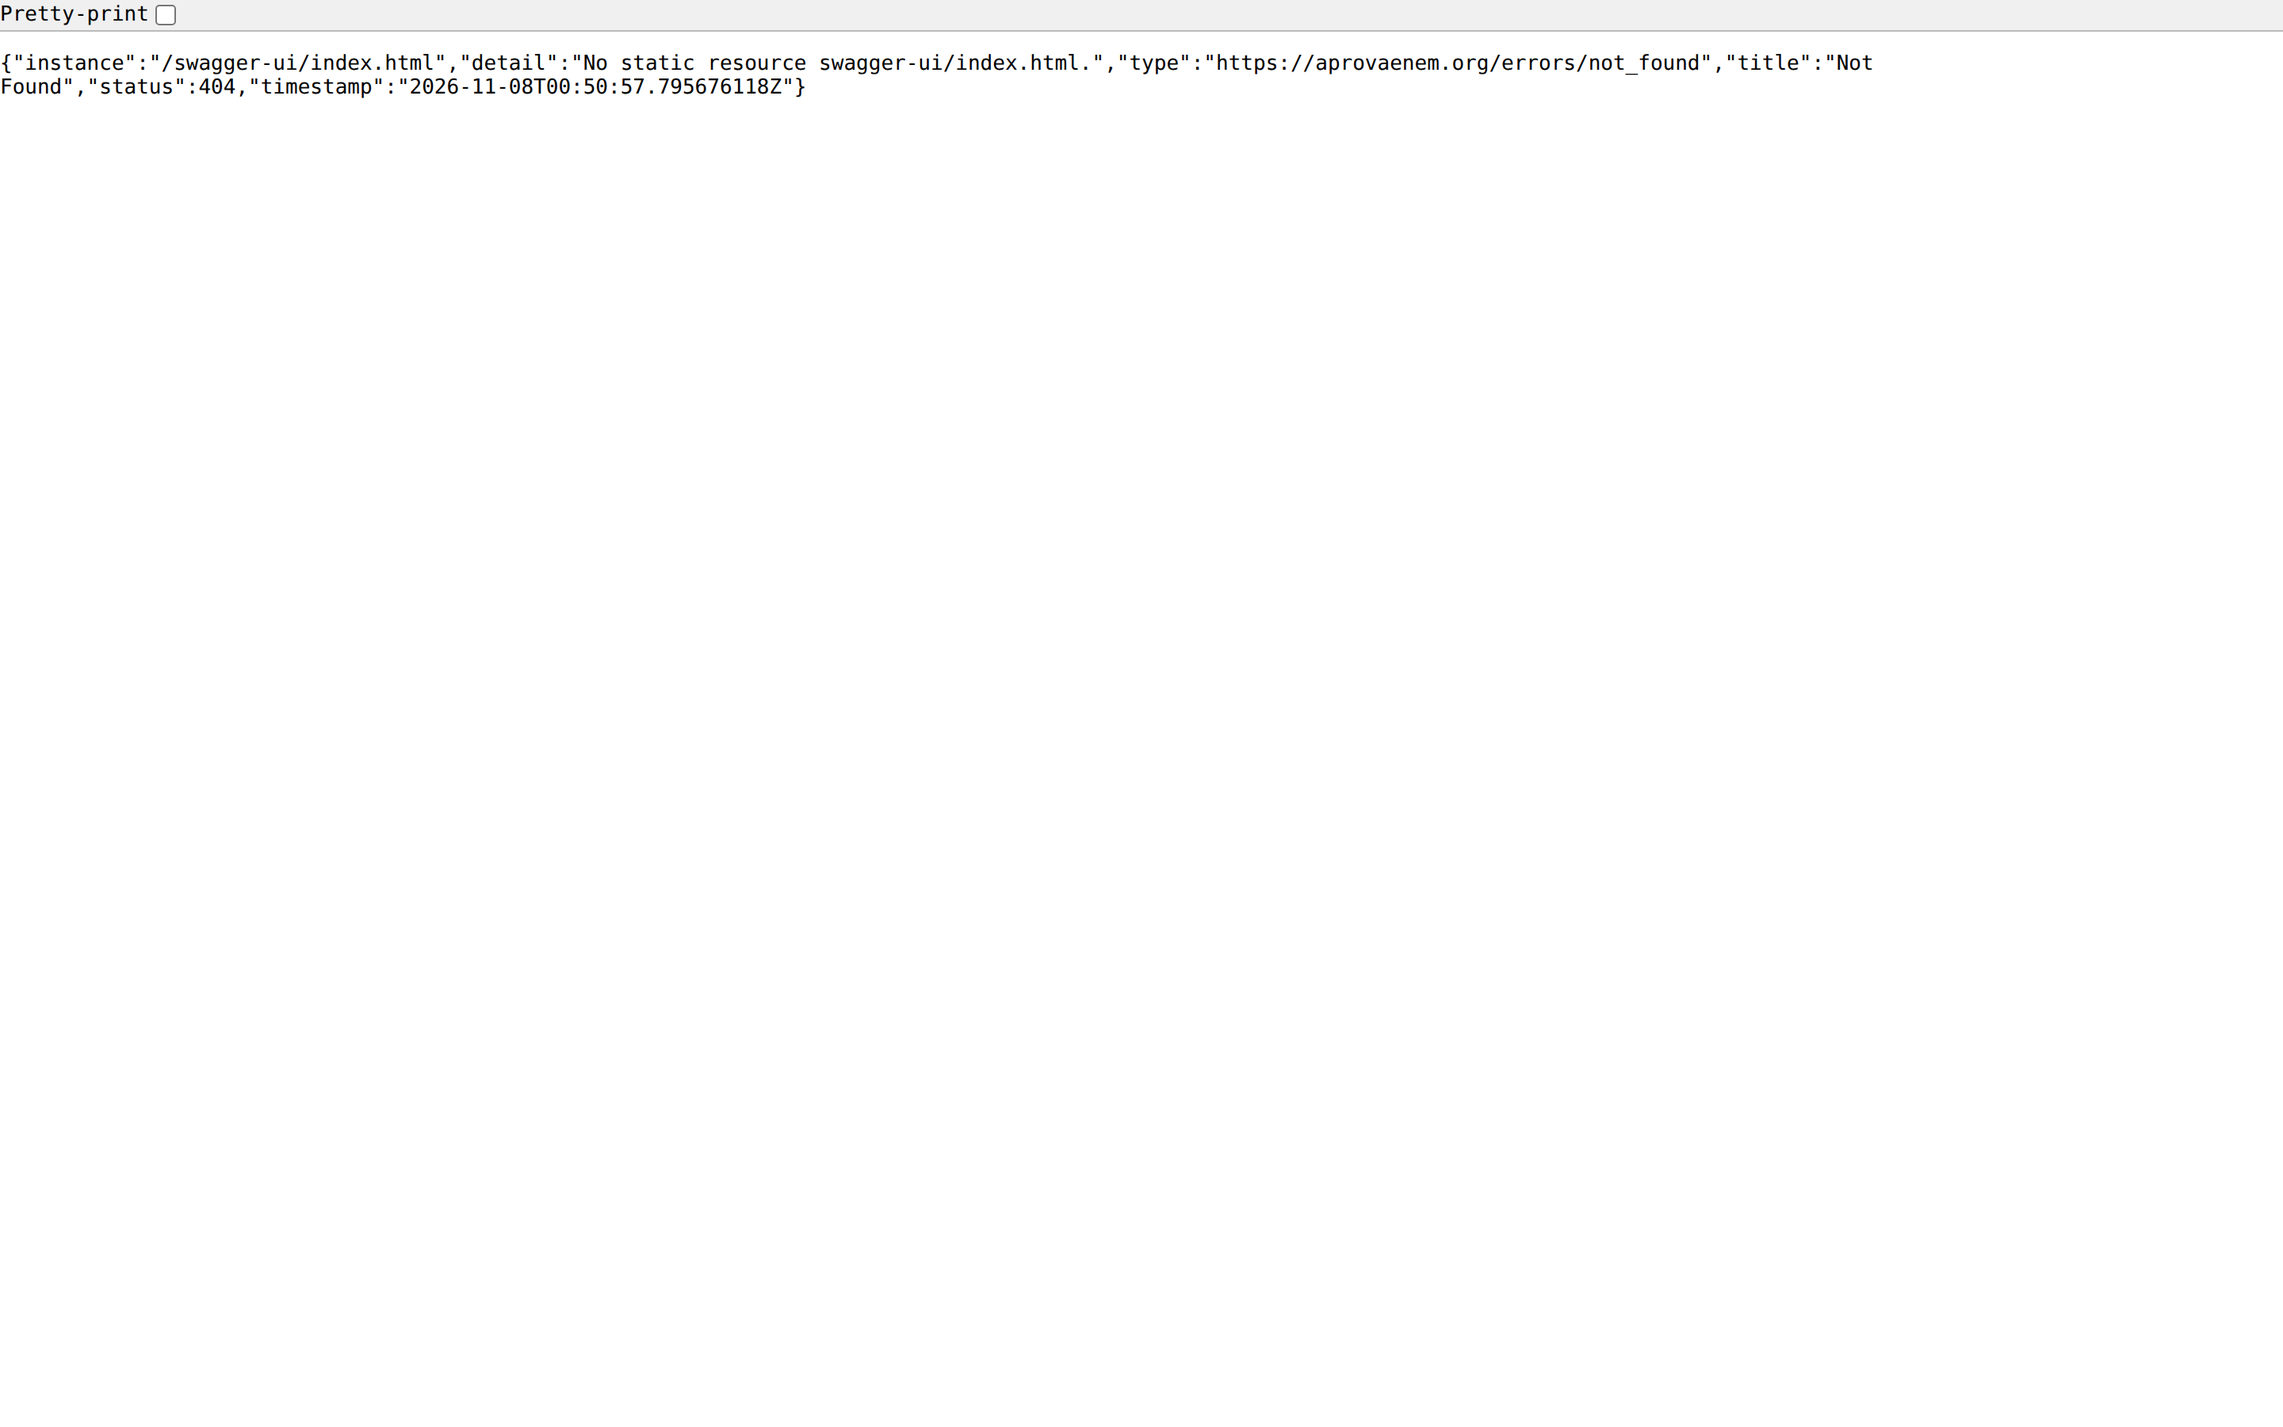
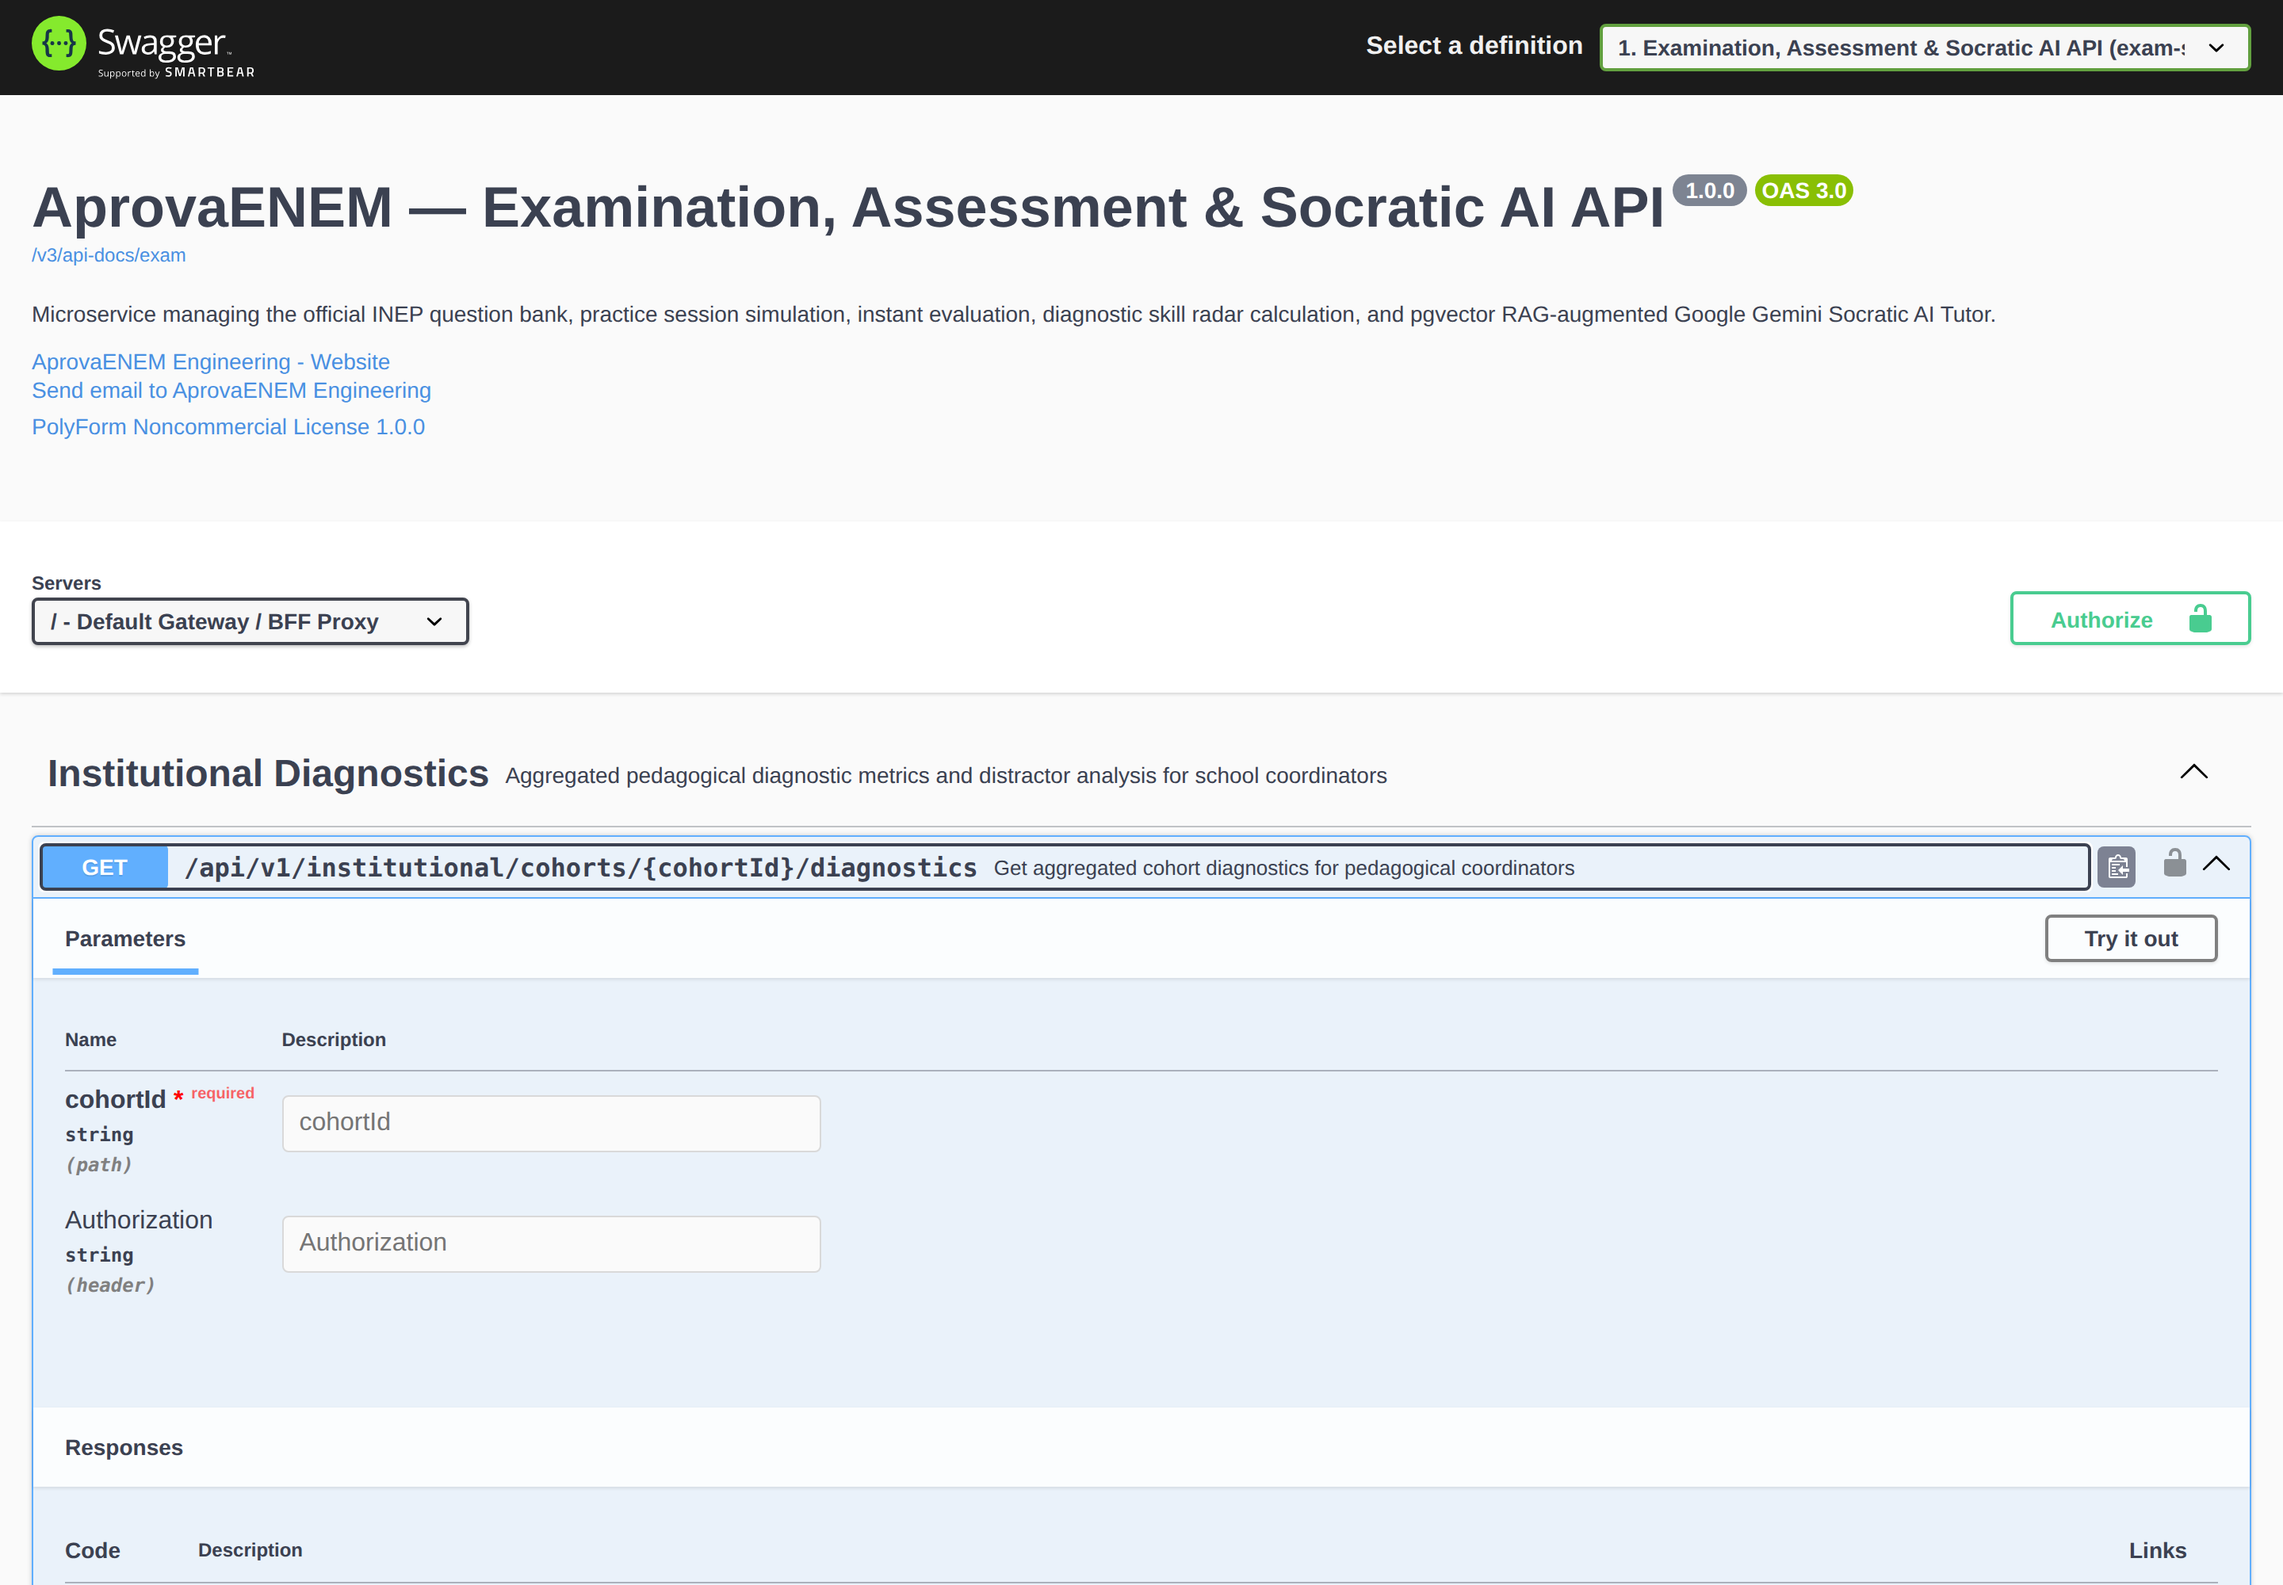
fix(showcase): correct Swagger UI capture path and expand operations (S6-08)

diff --git a/CHANGELOG.md b/CHANGELOG.md
@@ -18,6 +18,9 @@ and this project adheres to [Semantic Versioning](https://semver.org/spec/v2.0.0
 - docs(postman): Updated Postman collection [`AprovaENEM.postman_collection.json`](docs/postman/AprovaENEM.postman_collection.json) with `PUT /api/v1/auth/session/:id/claim`, authenticated and unauthenticated test suites for `GET /api/v1/questions/:id/resolution`, and email-bound verification request payloads.
 - docs(backlog): Tracked tasks `S6-08` and `S6-48` in [`docs/BACKLOG.md`](docs/BACKLOG.md) reflecting showcase media kit generation and comprehensive specification synchronization.
 
+### Fixed
+- fix(showcase): Resolved Swagger UI portal route redirect in [`generate-showcase-media.mjs`](frontend/scripts/generate-showcase-media.mjs), navigating directly to `/swagger-ui.html` and expanding operations to capture complete OpenAPI schemas in `swagger-ui-portal.png`.
+
 ## [0.6.20] - 2026-10-31
 
 ### Added
